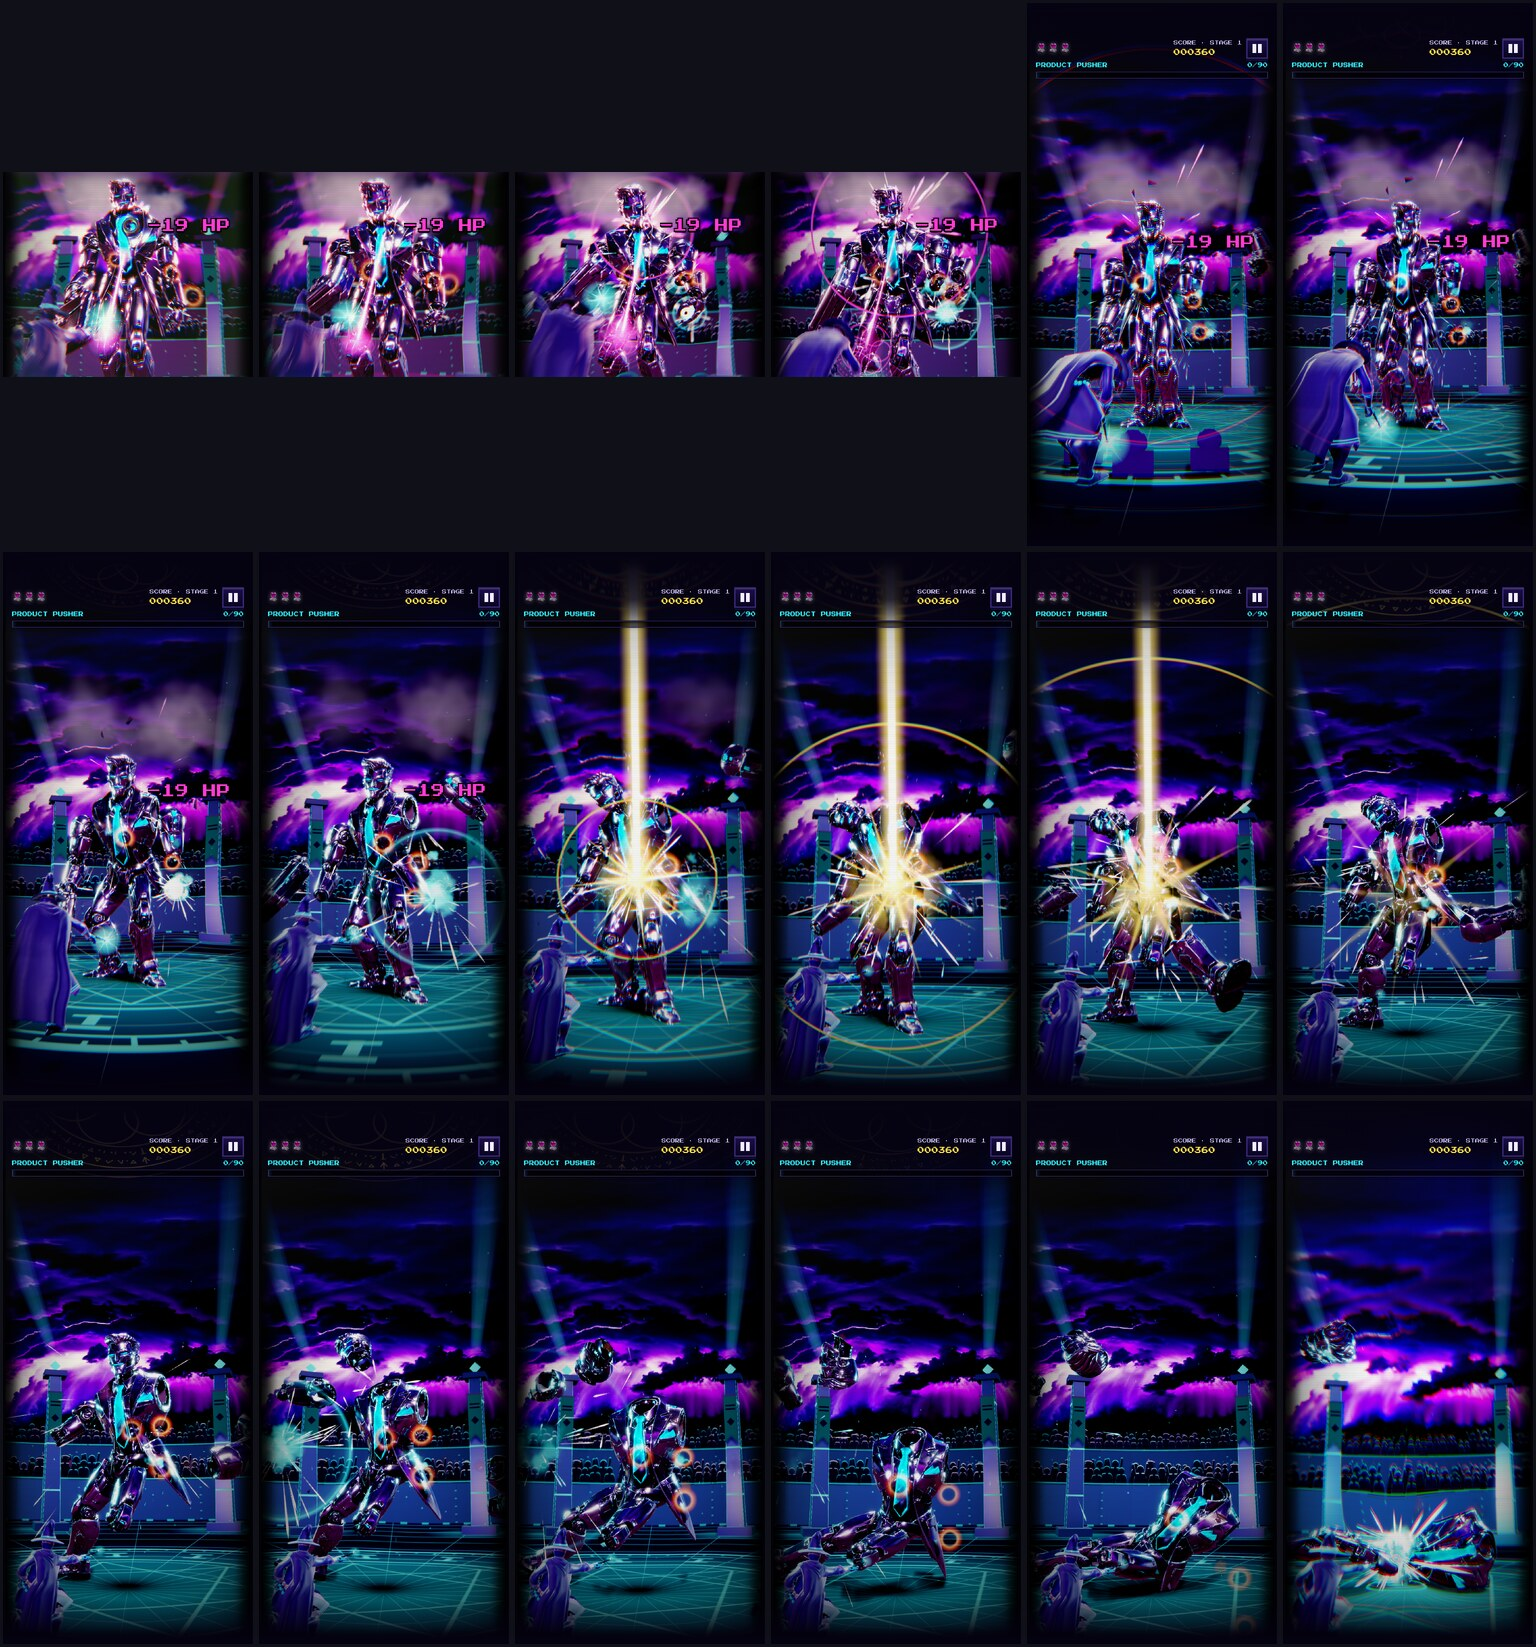
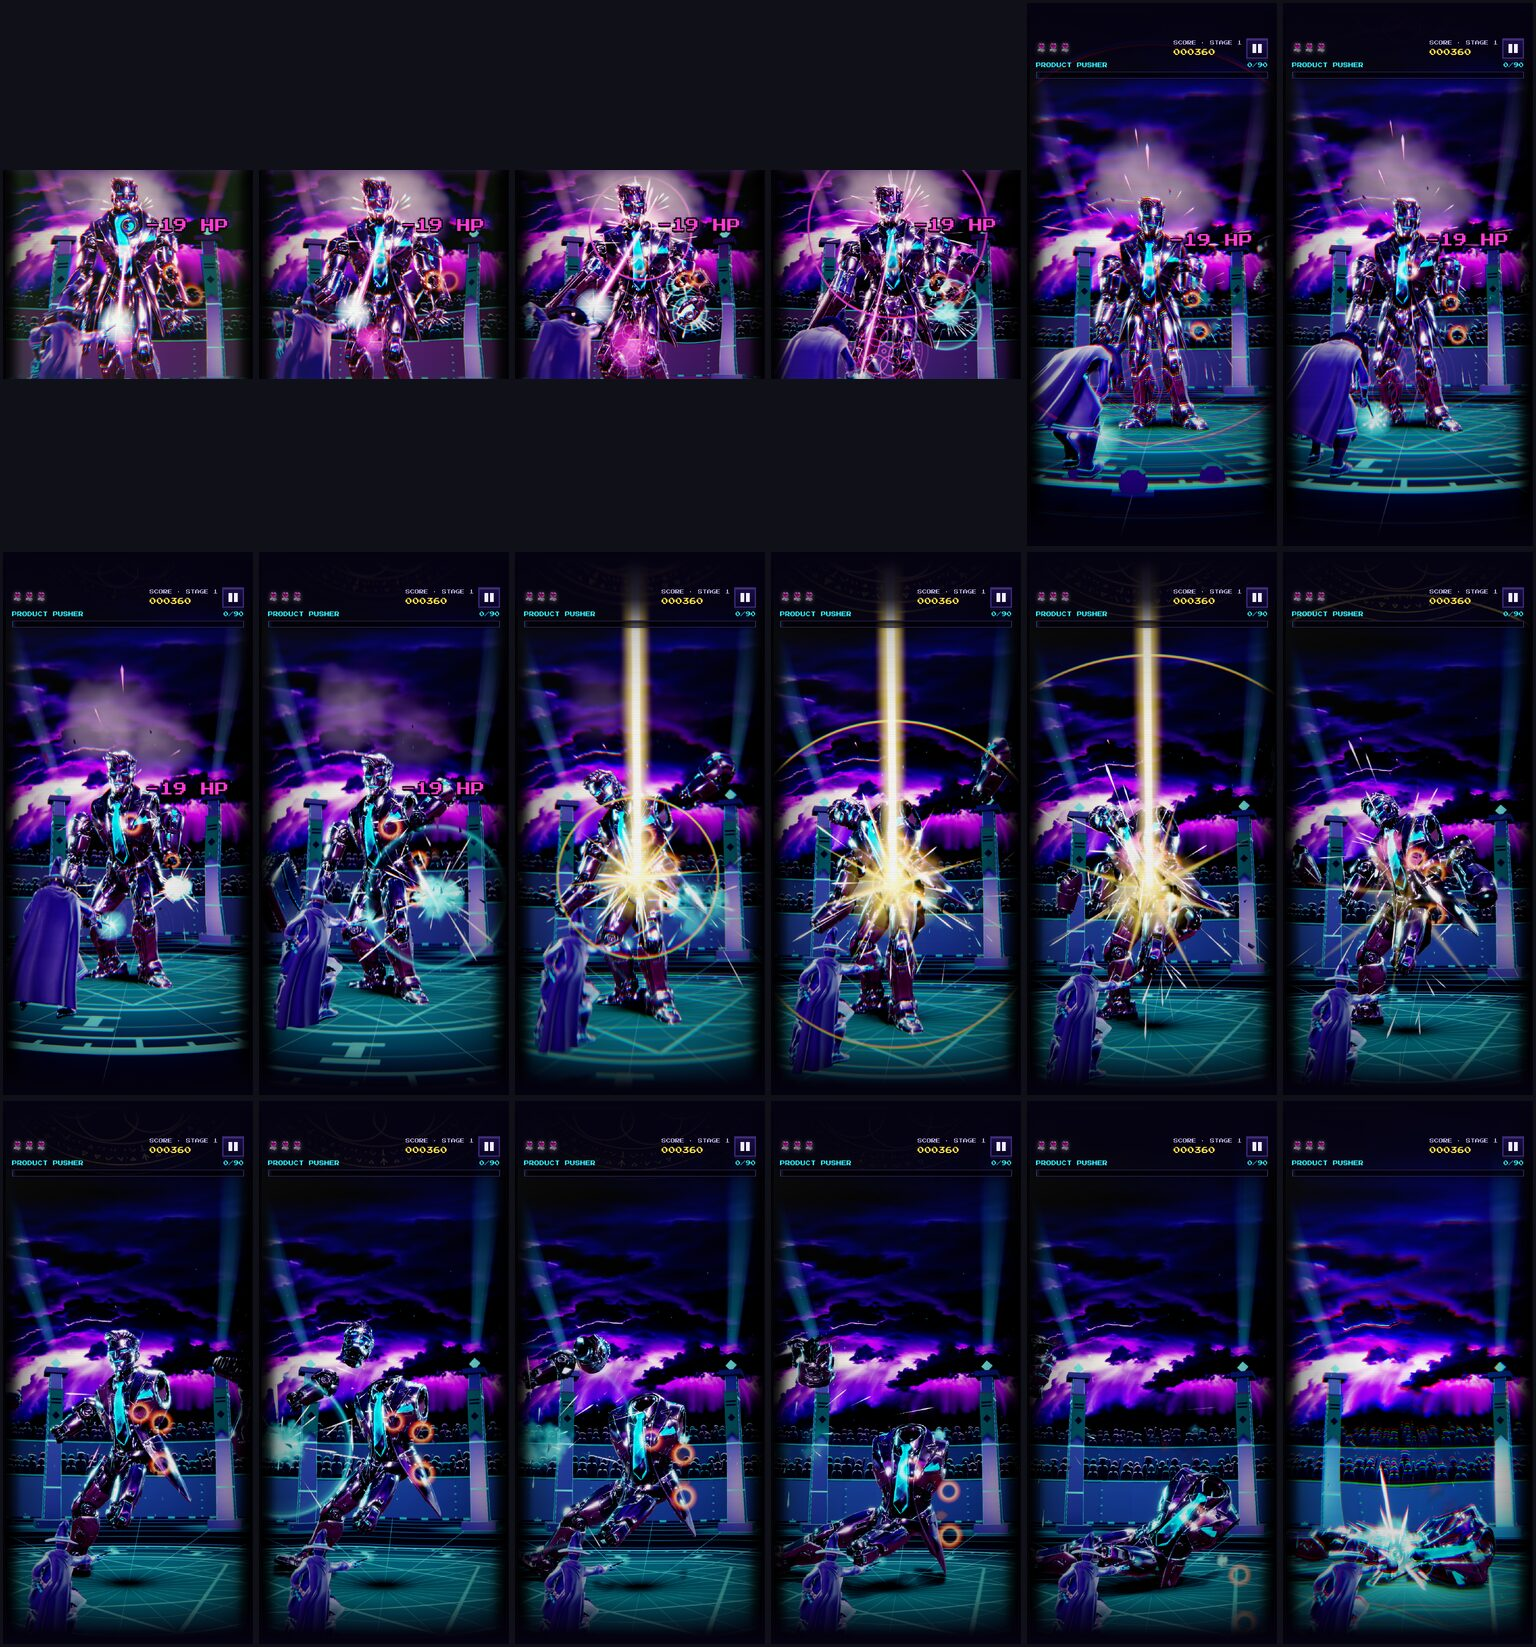
Progress and docs: Boss Rush's wizard
PROGRESS.md: the order, the events mapped, what was made, the staging, the effects and
their limits, the sound, the cost measured and what was simplified for it, the checks,
the independent review and its re-check, what to test on the phone, the spend.
docs/wizard/: the captures on the final build (a phone held upright in Chromium and
WebKit, all twelve arenas, a 1440 x 900 screen).

Claude-Session: https://claude.ai/code/session_01SXN4PWw2h7NprrScNwTTGU

diff --git a/arcade/PROGRESS.md b/arcade/PROGRESS.md
@@ -3338,3 +3338,145 @@ inside what a phone draws at 60. No shadow maps or mirror on a phone already. Th
 move ten times a second and stop being drawn past 50 m; their joint caps past 22 m.
 
 **Spend**: nothing.
+
+## Boss Rush's wizard (2026-11-23)
+
+The owner's order: a cape-wearing wizard with a wand who duels the bosses, original (no known character, name, scar,
+logo or crest), made with the linked services: the character (rigged: idle, cast, big cast, hit, victory, defeat; its
+cape and robe moving), a wand of its own with a tip that glows and charges, three or four spells each with its own
+colour, trail, impact and screen feedback, the effects of a duel, its own sounds levelled with the game's, and staging
+that reads on a phone held upright without covering the answers or the boss. A visual and audio layer only, driven by
+the events the rules already decide: nothing about study logic, questions, answers, scoring, boss health, `content/` or
+`scripts/` changed, nor how any event is decided. Inside the performance budget (if it costs frames, simplify the
+effects, not the frame rate); small commits; WebKit as well as Chromium.
+
+**The events, mapped first** (22-boss.js decides; 22f-bossstage.js stages; the wizard, `22h-wizard.js`, is told):
+
+| rule | stage | the wizard |
+|---|---|---|
+| start | `enter` | it drops in, in a column of cyan sparks and a rune circle, as the boss drops in; it lands and rises (`enter`: Tripo's jump-down, its hips' path moved so it lands where the idle stands) |
+| a question up | `ask` | it holds its wand out at the boss (a held copy of `cast`), higher as the attack bar fills; its tip gathers light; a low hum as it starts |
+| pick (right or wrong) | `fire`, then `volley` x3 (x1 when wrong) | it casts (`cast`, played from just before its release); ARC BOLTS, cyan, leave the wand's tip from 0.05 s on (its arm out by then), 0.065 s apart, a star and a rune circle at the tip; a wrong answer: one dim violet bolt, a sputter of sparks and smoke at the wand, the old red fizzle on the armour |
+| the right answer lands | `bossHit` | the NOVA LANCE, magenta, from the wand to the boss (the stage's own lance, impact, wave, debris, hit-stop and recoil, in its colour; the lance's root kept at the tip); a heavy blow (20+, enraging, tearing or finishing) is its lunging big cast (`bigcast`), with a bigger rune circle and more sparks |
+| the boss's strike lands | `playerHit` | the AEGIS WARD: a round wall of green hexagons across the foot of the picture, flaring where the blow struck, a ripple running out from it, breaking up a cell at a time nearest the blow first, as the heart goes (the rule took it); it reels (`hurt`; `stagger` on the last heart) |
+| victory | `death`, `lastBlast` | STARFALL: it points its wand at the boss (`cast`, held) as a golden sigil turns over the boss and a column of gold light comes down through it, a wave and white sparks; at the last blast it raises its wand (`win`) and its own victory sting plays in place of the old one |
+| defeat | `defeat` | it sinks a little (`defeat`), its wand's light going out and its neon dimming |
+
+Everything is on the stage's show clock (slowed in the death's slow motion), and nothing in it is read by a rule. Every
+call from the stage goes through `wizCall`: without the wizard's files (the page opened from disk) the fight is as it
+was, and should a call fail, the wizard goes and the fight goes on as it was. Each clip as made held the hips somewhere
+of its own (the big cast its root turned too): each is moved to stand where the idle stands, so going from one to
+another does not slide the body (the feet, under the answers, take the difference).
+
+**Made** (the spend is in `ASSETS.md`): the wizard (Tripo, from a Nano Banana Pro concept; a Rodin candidate from the
+same concept was made and not used: a pale face and hands, a smeared cape), rigged by Tripo (78 joints) with eight clips
+from its presets; kept soft-skinned (`tools/gen/process-skinned.mjs`, new: a coat and a cape should bend), its cape
+re-bound from the arms and legs to the trunk (a raised arm had lifted it over its head), a flutter mask baked in for
+the cape and the coat's skirts, its cloth made matte (the generator had made it half metal: dark under coloured lamps),
+32K triangles, 1.27 MB. The wand (Tripo, from a Seedream concept), 3K triangles, held along the line of the right hand,
+its tip an anchor. Three spell textures (Seedream: a rune circle of geometric marks, a hexagonal ward, a star flare;
+white on black, tinted in the game). Eleven sounds, 38 takes (ElevenLabs).
+
+**Staging.** While the answers are up it stands low on the left, seen from the hips up at their top edge (the answers
+hide the rest), 4.8 m from the lens, its back three-quarters to the lens and its right side (the wand's) toward it, so
+its arm reaches into the picture toward the boss as it casts. It holds its place in the picture as the lens moves (it is
+placed from where the lens looks from and at before its shake, so a shake moves it with the world). When the whole
+screen is the picture (before the first question, after the last) it stands on the arena's floor 6.5 m off (never more
+than half the way to the boss, nor with its hips under the foot of the screen), and moves between the two over half a
+second. It covers the boss's lower left corner (a hand, a knee) and nothing of the answers, the question or the HUD; on
+a very wide screen (over about 1730 px, where the answers stand in a 1040 px column) it keeps within their width, so its
+legs never show beside them. While it is there, the crowd's front row (the dark heads along the foot of the picture,
+22-boss.js: the arena's foreground until now) sinks out of the picture: the wizard is the foreground. As the lens comes
+in at the start of a question the wizard stands among those heads, its wand hand a metre past them, and on a wide screen
+behind them. A cold lilac rim holds its edge against every arena; checked against all twelve
+(`tools/scenarios/wizard-arenas.js`).
+
+**Effects and their limits.** Its glow is drawn (a glow sprite and a star at the tip, two pooled rune circles, three
+floating runes, one ward, one sigil, one flare: all made once with the fight); it has no light of its own (the stage's
+lights are spent) and does not take the kit's one blast light from the boss. The cape flutters in the vertex shader,
+more as it casts or is struck. Its shake (0.12, Starfall only) and lift of light (`GFX.pulse`, capped at three a second)
+are the game's own. Reduced effects (or reduced motion): no flutter, no floating runes, fewer sparks, no turning sigils,
+a dimmer ward. Below MEDIUM (no extras): no floating runes. It is never in the floor's mirror (it stands by the lens:
+its reflection would be off the picture, and it would be a second skinned draw).
+
+**Sound.** `sfx-wizard.mp3` (11 cues, 38 takes, 0.6 MB), a set of its own in the boss set, played through the effects
+bus (the effects volume). Levelled by `audio-build.js` and checked with `tools/audio-levels.py`: its cues' loudest 400 ms
+at the mix sit at -28 to -22 dB (median -25.4; the other sets' medians -25 to -22); the bolt 2.7 dB under the laser it
+replaces, the victory sting within 1.2 dB of the old one; nothing clips. No hiss: the file's floor (its quietest tenth) is -87 dBFS, -98 dB above 4 kHz, flatness 0.20 (`tools/noise-floor.py` flags a floor flatter than 0.3 above 4 kHz and louder than -60 dBFS). Where its set has not loaded, each cue
+falls back to one of the game's own (the laser, the old sting) or to nothing. A blow's strike is one sound: the
+wizard's for an ordinary blow (in place of the stage's), the stage's own big one for a heavy blow. The sound test names
+them.
+
+**Performance** (measured before the review's fixes, which add no draw: a held pose and a placement). Measured with `tools/cost-report.js` (the fight held still, a phone's screen, MEDIUM at
+1.75x: the phone's SMOOTH) on the live build (e0ebaa8) and this one. This machine draws in software: compare, do not
+read as a phone's milliseconds. WebKit (Safari's engine), whose numbers hold steady run to run: a fight's frame 144 ms
+before, 150 after (+4%); 68 → 74 draws, 74K → 109K triangles, the same 5 lights (3 point, 2 directional), pictures
+164 → 203 MB. Chromium's whole frames swing too much between runs to compare (463 → 504 ms in one pair, 621 → 528 in
+another, the frames' content differing), so the wizard's own cost was measured directly: one held frame drawn nine times
+each way, shown and hidden, interleaved. First as made: 177-229 ms of a frame in Chromium and 26.5 ms in WebKit, nearly
+none of it its geometry or skinning (drawn with a flat material it cost 3 ms) and nothing measurable for the rim or the
+flutter: its pixels. Each surface was drawn on both sides (the generator's default; the mesh is closed, so the back
+faces are hidden, but each was still shaded) and read a normal map. Drawn one-sided and without its normal map (compared
+close up at 3x: the same picture), it costs 91 ms in Chromium (12% of that frame) and 11 ms in WebKit (7%): half.
+
+What was simplified for the frame rate: one-sided and no normal map (above); 32K triangles (a hero's bar is 55K: it is
+seen from behind and half of it is under the answers); its glow map at 1024 px; no light of its own; never in the
+floor's mirror; its effects drawn, pooled and made once with the fight (two rune circles, three runes, one ward, one
+sigil, one flare, the tip's glow and star) on top of the kit's own pools; its floating runes only where the tier keeps
+extras and never with reduced effects; the cape's flutter in the vertex shader (no cloth to simulate), off with reduced
+effects. Not simplified: its 2048 px colour map (it is the only thing on screen that close to the lens). The quality
+governor (the performance pass) keeps 60 by drawing fewer pixels first, should a phone need it.
+
+**Checked** (on the last build): the regression IDENTICAL from disk and served (153 answers in 8 games, no
+console errors); the sequence test ALL 13 STEPS OK; and on the build before the review's fixes (which touched only Boss
+Rush's stage and wizard), the card faces one at a time in WebKit and Chromium and `governor-test.js` in both engines; nothing under `content/` or `scripts/` changed since the live build, nor `22-boss.js` or
+`19-quizgame.js` (the rules), nothing outside `arcade/`; no `GFX.hitStop` added, the exam boss's two untouched. Every
+part of the fight captured on a phone held upright in Chromium and WebKit, at 1440 x 900 in Chromium, and against all
+twelve arenas (`docs/wizard/`).
+
+**The independent review** (Opus: it read all of it, ran the class on the real model in Node, and probed the fight in
+both engines on a phone's screen, at 1440 x 900 and 1024 x 768, served and from disk). No blocker: no wizard code
+writes a rule's state (HP, hearts, score, charge, state, the rules' own timers) and the rules' timers are unchanged;
+the protected files untouched; no shader compiled late (72 programs from the mount to the end); nothing leaked over
+three visits; no allocation in a frame (0.03 ms a frame); reduced effects and the tiers respected; every missing piece
+(the wand, the textures, the sound set, WebP) falls back; from disk, no wizard and no error. What it found, and what
+was done:
+- each clip as made held the hips at an offset of its own (and the big cast its root turned 10 degrees), so going
+  from one to another slid the body sideways, up to 36 cm (31-34 px on a phone in four frames): every clip now stands
+  where the idle stands (the feet, under the answers, take the difference);
+- the first bolt and the cast's rune circle left from the pose of the frame before (the circle from the wand at rest,
+  under the answers): the wizard's pose is now set before the stage's shots leave, and the circle (or a wrong answer's
+  sputter) goes with the first bolt, from the tip;
+- the entrance faded in over the idle, so it rose before it dropped: its jump starts at once;
+- on a wide screen (a desktop, a tablet) it stood behind the crowd's front row during a question, and at the end of the
+  fight level with the boss, off the picture: on the floor it now stands at most half the way to the boss and never
+  with its hips under the foot of the screen, and the front row sinks out of the picture while it is there (it was the
+  arena's only foreground: the wizard is now);
+- the wand's charge was behind the answers for the whole question: while a question is read it now holds its wand out
+  at the boss (a held copy of its cast, more as the attack bar fills), its glowing tip in the picture;
+- and the smaller points: the cape's wave read the packed vertex (now the skinned one, in metres); the casts' key
+  moments are found as the fight is built, from a fresh matrix (a few milliseconds at the first answer before); the
+  volley's lead and spacing (0.05 s, 0.065 s) land the last bolt a frame or more before the lance, at 30 frames a
+  second too; every call from the stage to the wizard goes through a guard (should one fail, the wizard goes and the
+  fight goes on as before); the lance's root stays at the wand's tip while it is drawn; one strike sound for a blow
+  (the wizard's for an ordinary one, the stage's own big one for a heavy one, never both); the old sting at its old
+  level where the wizard's sounds have not loaded; the asset log's wand maps; the temporary build removed.
+
+A re-check of those fixes (the same reviewer) confirmed each one, measured: the hips move at most 1 cm as a clip comes in
+(24-36 cm before), the entrance's first frame is already in the air, the first bolt leaves within 1 mm of the tip, the
+last lands by 0.267 s (the lance comes at 0.3), the held wand crosses the answers' edge at half the bar, the wave's
+height is the true height, and on a 1440 x 900 screen the wizard is in the picture at a victory and a defeat. Nothing
+blocking; its four small points, fixed: on a phone the front row had sunk and risen again once a question (the lens comes
+in and draws back with the bar), and at the start of a question a head could hide the wand hand (now the row stays down
+while the wizard is there); over about 1730 px wide the wizard stood beside the answers' column, its legs showing (now it
+keeps within their width); a wizard dropped after a failure now puts the row back and frees its pictures; and the
+lance's root follows the wand only for the lance's own life (the kit's beams are pooled).
+
+**For the owner, on the phone**: Setup > FPS counter ON (Low Power Mode off for the test), a Boss Rush fight twenty
+seconds in, then a right answer, a wrong one and a finishing blow. Line one should still read about 60 FPS and the
+graph's bars sit green on the white line; line three AUTO · STEP 1/7 SMOOTH. If it reads a higher step during a fight,
+AUTO gave up drawing size to keep 60: send that screenshot.
+
+**Spend**: Tripo 195 credits (the wizard 60, the wand 30, the rig 25, eight clips 80); fal.ai $2.30 by the balance
+($1.94 by the ledger: three Nano Banana Pro concepts, two Seedream wand concepts, one Rodin candidate $1.20, three
+textures, and $0.14 lost to a generator script run by mistake: see `ASSETS.md`); ElevenLabs 472 credits (38 takes).

diff --git a/arcade/docs/wizard/README.md b/arcade/docs/wizard/README.md
@@ -1,21 +1,23 @@
 # Boss Rush's wizard (2026-11-23)
 
-Captures of the wizard duellist on a phone held upright (440 x 956 page pixels; the strips are the picture's band, or
-the whole screen where it says so), on the capture tool's virtual clock. Chromium unless named. Made with
-`tools/scenarios/wizard.js` and `tools/scenarios/wizard-arenas.js`.
+Captures of the wizard duellist on the capture tool's virtual clock, on the final build. A phone held upright is 440 x
+956 page pixels with its safe areas; the strips are the picture's band, or the whole screen where it says so. Chromium
+unless named. Made with `tools/scenarios/wizard.js` and `tools/scenarios/wizard-arenas.js`.
 
 | file | what |
 |---|---|
-| `01-before-after.jpg` | the fight with a question up: the live build before the wizard (e0ebaa8), and with it (2x) |
+| `01-before-after.jpg` | a question up: the live build before the wizard (e0ebaa8), and with it, its wand held out at the boss (2x) |
 | `02-before-right-answer.jpg` | before: a right answer, its bolts and lance leaving from the answer's side (2x, every 2nd frame) |
-| `03-cast-and-hit.jpg` | after: the same moment. It casts, three Arc Bolts (cyan) leave its wand and spark off the armour, the Nova Lance (magenta) lands from the wand, the boss reels (2x, every 2nd frame) |
+| `03-cast-and-hit.jpg` | after: a right answer. It casts, three Arc Bolts (cyan) leave its wand and spark off the armour, the Nova Lance (magenta) lands from the wand, the boss reels (2x, every 2nd frame) |
 | `04-ward.jpg` | a wrong answer: a dim bolt that fizzles, the boss's volley, the Aegis Ward (green hexagons across the foot of the picture) rippling from the blow and breaking up as the heart goes, then the explanation sheet (2x, every 2nd frame) |
 | `05-starfall.jpg` | the finishing blow, then Starfall: it points its wand, a golden sigil and a column of gold light come down through the boss as it falls; the whole screen once the answers have gone (2x) |
-| `06-entrance.jpg` | a fight starts: it drops in, in a burst of cyan light and a rune circle, as the boss drops in (whole screen, 1x) |
-| `07-defeat.jpg` | out of hearts: the boss has the last word; the wizard at the left, its light dimmed (whole screen, 1x) |
+| `06-entrance.jpg` | a fight starts: it drops in, in a burst of cyan light and a rune circle, as the boss drops in (whole screen, 2x) |
+| `07-defeat.jpg` | out of hearts: the boss has the last word; the wizard at the left, its light dimmed (whole screen, 2x) |
 | `08-twelve-arenas.jpg` | casting at each of the twelve bosses in its own arena (1x) |
 | `09-close-up.jpg` | a 3x crop: casting, its wand's tip flaring |
 | `10-webkit-cast.jpg` | a right answer in WebKit (Safari's engine), 1x |
+| `11-landscape.jpg` | a 1440 x 900 screen, a question up: the crowd's front row sunk, the wizard the foreground |
+| `12-landscape-starfall.jpg` | the same screen: the finishing blow and Starfall |
 
 What each event does, how it was measured and what was simplified for the frame rate: `PROGRESS.md`, "Boss Rush's
 wizard". Its files and their cost: `ASSETS.md`.
